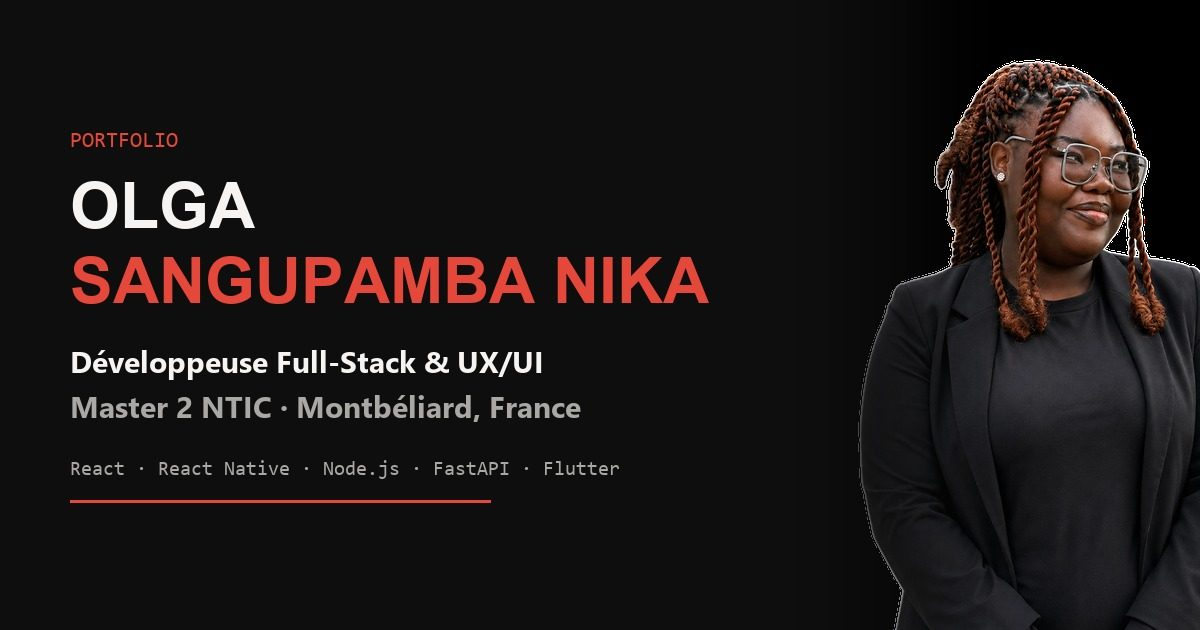
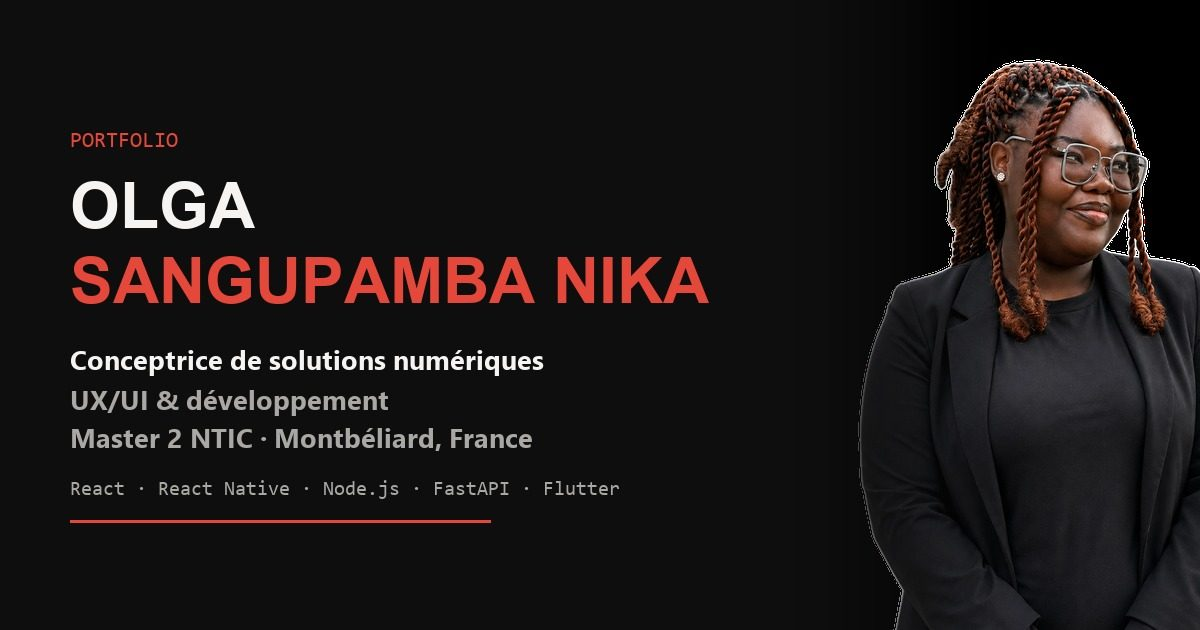
Reposition identity as designer of digital solutions, not "dev"
Olga doesn't identify as a "Full-Stack Developer" — she sees her
work as thinking through problems, researching, and designing/
building the digital solution that solves them, spanning both UX/UI
and development rather than being defined by the code alone.

Updates the framing everywhere it acted as a personal title: the
meta/share tags, the social preview image, the chat assistant's bio
answer, and the "Qui suis-je" intro on the About page. Leaves the CV
and the purely technical/project-scope mentions of "full-stack"
(skill category, project tags) untouched, as she asked.

Changed region(s): [[0.0617, 0.5429, 0.4933, 0.8444], [0.4625, 0.7238, 0.5242, 0.7841]]

diff --git a/assets/i18n.js b/assets/i18n.js
@@ -424,7 +424,7 @@ fr: {
 "proj.nexus.cta.github": "Voir sur GitHub",
 "aboutp2.hero.title": "<span class=\"word\">À</span> <span class=\"word\">propos</span> <span class=\"word accent\">de moi</span>",
 "aboutp2.qui.heading": "Qui suis-je ?",
-"aboutp2.qui.lede": "Je m'appelle <em>Olga Sangupamba Nika</em>, étudiante en Master 2 NTIC (Nouvelles Technologies de l'Information et de la Communication). Je suis passionnée par le développement web, mobile et logiciel, je conçois notamment des applications web, mobiles et logicielles de bout en bout, autant que par la recherche appliquée et le design UX/UI.",
+"aboutp2.qui.lede": "Je m'appelle <em>Olga Sangupamba Nika</em>, étudiante en Master 2 NTIC (Nouvelles Technologies de l'Information et de la Communication). Je me définis avant tout comme conceptrice de solutions numériques : j'aime réfléchir à un problème, faire de la recherche, et créer les applications web, mobiles et logicielles qui y répondent, autant que par le design UX/UI.",
 "aboutp2.qui.p1": "Ce qui me porte, c'est une démarche presque scientifique au quotidien : observer un problème, le comprendre en profondeur, formuler des pistes de solution, prototyper, tester auprès d'utilisateurs réels, itérer et documenter chaque étape.",
 "aboutp2.qui.p2": "Curieuse et exigeante, j'aime transformer une question de recherche en solution numérique concrète, pensée pour être à la fois utile et simple.",
 "aboutp2.stats.annees": "Années d'études",
@@ -1282,7 +1282,7 @@ en: {
 "proj.nexus.cta.github": "View on GitHub",
 "aboutp2.hero.title": "<span class=\"word\">About</span> <span class=\"word accent\">me</span>",
 "aboutp2.qui.heading": "Who am I?",
-"aboutp2.qui.lede": "My name is <em>Olga Sangupamba Nika</em>, and I'm a Master's student in ICT (New Information and Communication Technologies). I'm passionate about web, mobile and software development — I design end-to-end web, mobile and software applications — as much as I am about applied research and UX/UI design.",
+"aboutp2.qui.lede": "My name is <em>Olga Sangupamba Nika</em>, and I'm a Master's student in ICT (New Information and Communication Technologies). I see myself first and foremost as a designer of digital solutions: I like thinking through a problem, researching it, and creating the web, mobile and software applications that solve it, as much as through UX/UI design.",
 "aboutp2.qui.p1": "What drives me is an almost scientific approach applied every day: observe a problem, understand it in depth, formulate possible solutions, prototype, test with real users, iterate, and document every step.",
 "aboutp2.qui.p2": "Curious and demanding, I love turning a research question into a concrete digital solution, designed to be both useful and simple.",
 "aboutp2.stats.annees": "Years of study",
@@ -2140,7 +2140,7 @@ es: {
 "proj.nexus.cta.github": "Ver en GitHub",
 "aboutp2.hero.title": "<span class=\"word\">Sobre</span> <span class=\"word accent\">mí</span>",
 "aboutp2.qui.heading": "¿Quién soy?",
-"aboutp2.qui.lede": "Me llamo <em>Olga Sangupamba Nika</em>, estudiante de Máster en NTIC (Nuevas Tecnologías de la Información y la Comunicación). Me apasiona el desarrollo web, móvil y de software: diseño aplicaciones web, móviles y de software de principio a fin, tanto como la investigación aplicada y el diseño UX/UI.",
+"aboutp2.qui.lede": "Me llamo <em>Olga Sangupamba Nika</em>, estudiante de Máster en NTIC (Nuevas Tecnologías de la Información y la Comunicación). Me defino ante todo como diseñadora de soluciones digitales: me gusta reflexionar sobre un problema, investigarlo y crear las aplicaciones web, móviles y de software que lo resuelven, tanto como a través del diseño UX/UI.",
 "aboutp2.qui.p1": "Lo que me impulsa es un enfoque casi científico en el día a día: observar un problema, comprenderlo a fondo, formular posibles soluciones, prototipar, probar con usuarios reales, iterar y documentar cada etapa.",
 "aboutp2.qui.p2": "Curiosa y exigente, me encanta transformar una pregunta de investigación en una solución digital concreta, pensada para ser útil y sencilla a la vez.",
 "aboutp2.stats.annees": "Años de estudio",
@@ -2998,7 +2998,7 @@ de: {
 "proj.nexus.cta.github": "Auf GitHub ansehen",
 "aboutp2.hero.title": "<span class=\"word\">Über</span> <span class=\"word accent\">mich</span>",
 "aboutp2.qui.heading": "Wer bin ich?",
-"aboutp2.qui.lede": "Ich heiße <em>Olga Sangupamba Nika</em> und bin Masterstudentin im Bereich IKT (Neue Informations- und Kommunikationstechnologien). Ich begeistere mich für Web-, Mobil- und Softwareentwicklung — ich entwerfe Web-, Mobil- und Softwareanwendungen von A bis Z — ebenso wie für angewandte Forschung und UX/UI-Design.",
+"aboutp2.qui.lede": "Ich heiße <em>Olga Sangupamba Nika</em> und bin Masterstudentin im Bereich IKT (Neue Informations- und Kommunikationstechnologien). Ich verstehe mich in erster Linie als Gestalterin digitaler Lösungen: Ich denke gerne über ein Problem nach, recherchiere dazu und entwickle die Web-, Mobil- und Softwareanwendungen, die es lösen, ebenso wie durch UX/UI-Design.",
 "aboutp2.qui.p1": "Was mich antreibt, ist eine fast wissenschaftliche Herangehensweise im Alltag: ein Problem beobachten, es tiefgehend verstehen, Lösungsansätze formulieren, Prototypen bauen, mit echten Nutzer:innen testen, iterieren und jeden Schritt dokumentieren.",
 "aboutp2.qui.p2": "Neugierig und anspruchsvoll, verwandle ich gerne eine Forschungsfrage in eine konkrete digitale Lösung, die sowohl nützlich als auch einfach sein soll.",
 "aboutp2.stats.annees": "Studienjahre",

diff --git a/index.html b/index.html
@@ -18,17 +18,17 @@
   if(cls.length) document.documentElement.className+=' '+cls.join(' ');
 }catch(e){}})();</script>
 <title>Olga Sangupamba Nika | Master 2 NTIC</title>
-<meta name="description" content="Olga Sangupamba Nika — Développeuse Full-Stack &amp; UX/UI, étudiante en Master 2 NTIC à Montbéliard. Applications web, mobiles et logicielles de bout en bout, recherche UX/UI.">
+<meta name="description" content="Olga Sangupamba Nika — Conceptrice de solutions numériques (UX/UI &amp; développement), étudiante en Master 2 NTIC à Montbéliard. Recherche, réflexion et création d'applications web, mobiles et logicielles.">
 <meta property="og:type" content="website">
-<meta property="og:title" content="Olga Sangupamba Nika — Développeuse Full-Stack &amp; UX/UI">
-<meta property="og:description" content="Applications web, mobiles et logicielles de bout en bout, recherche UX/UI. Master 2 NTIC, Montbéliard.">
+<meta property="og:title" content="Olga Sangupamba Nika — Conceptrice de solutions numériques">
+<meta property="og:description" content="Recherche, réflexion et création de solutions numériques, du besoin à l'interface. Master 2 NTIC, Montbéliard.">
 <meta property="og:image" content="https://onykas.github.io/portfolio/assets/images/og-banner.jpg">
 <meta property="og:image:width" content="1200">
 <meta property="og:image:height" content="630">
 <meta property="og:url" content="https://onykas.github.io/portfolio/">
 <meta name="twitter:card" content="summary_large_image">
-<meta name="twitter:title" content="Olga Sangupamba Nika — Développeuse Full-Stack &amp; UX/UI">
-<meta name="twitter:description" content="Applications web, mobiles et logicielles de bout en bout, recherche UX/UI. Master 2 NTIC, Montbéliard.">
+<meta name="twitter:title" content="Olga Sangupamba Nika — Conceptrice de solutions numériques">
+<meta name="twitter:description" content="Recherche, réflexion et création de solutions numériques, du besoin à l'interface. Master 2 NTIC, Montbéliard.">
 <meta name="twitter:image" content="https://onykas.github.io/portfolio/assets/images/og-banner.jpg">
 <link rel="icon" href="assets/images/favicon.ico" sizes="any">
 <link rel="icon" type="image/png" sizes="32x32" href="assets/images/favicon-32.png">

diff --git a/assets/app.js b/assets/app.js
@@ -57,7 +57,7 @@
 
     var KB = [
       { keys:['qui est olga','qui es olga','c\'est qui olga','qui es-tu','qui êtes-vous','présente','presente-toi','présente-toi','te présenter'],
-        a:"Olga Sangupamba Nika, 23 ans, étudiante en Master 2 Nouvelles Technologies de l'Information et de la Communication à Montbéliard. Elle est développeuse Full-Stack & UX/UI, passionnée par le numérique et la recherche appliquée. Le détail est sur la page À propos." },
+        a:"Olga Sangupamba Nika, 23 ans, étudiante en Master 2 Nouvelles Technologies de l'Information et de la Communication à Montbéliard. Elle se définit comme conceptrice de solutions numériques (UX/UI & développement), passionnée par la recherche appliquée et la création de solutions numériques. Le détail est sur la page À propos." },
       { keys:['competence','compétence','skill','techno','stack','sait faire','maitrise','maîtrise'],
         a:"Ses compétences sont réparties en 4 familles : Full-Stack (React, React Native, Node.js, FastAPI, Flutter...), Bases de données, UX/UI & Recherche, et Gestion & Création. Détail complet dans À propos → Compétences." },
       { keys:['aide','aider','apport','apporter','pourquoi','recruter','embaucher','pourquoi toi','pourquoi elle','forces','qualités','qualites'],
